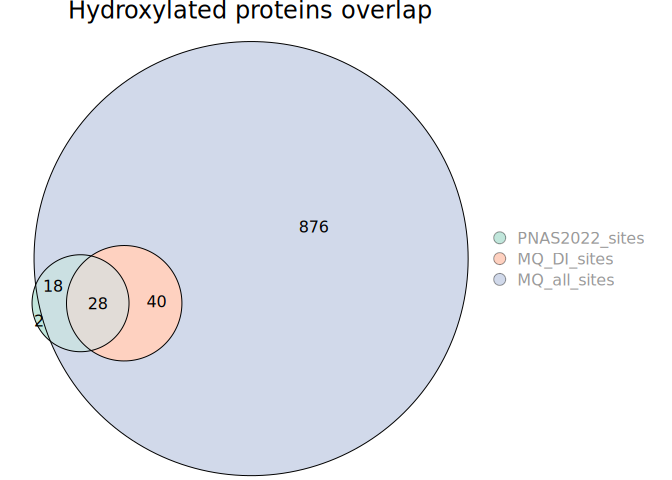
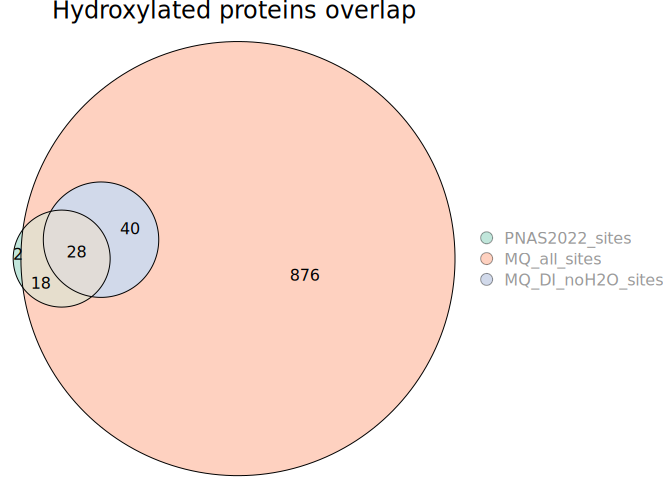
md_plots_updated

diff --git a/R/p2_lysine-rich-domain-LCMS/p2-4-diagnostic-ions.md b/R/p2_lysine-rich-domain-LCMS/p2-4-diagnostic-ions.md
@@ -1,7 +1,7 @@
 2-4. Analysis of lysine hydroxylations using diagnostic ions
 ================
 Yoichiro Sugimoto and Pallavi Kesavan
-27 November, 2025
+17 December, 2025
 
 - [Environment setup](#environment-setup)
 - [2.4.1 Import basic data](#241-import-basic-data)
@@ -10,8 +10,8 @@ Yoichiro Sugimoto and Pallavi Kesavan
   paper](#243-analyse-hydroxylation-sites-in-the-data-of-pnas-paper)
 - [2.4.4 Analyse hydroxylation sites without DI
   data](#244-analyse-hydroxylation-sites-without-di-data)
-- [2.4.5 Analyse hydroxylation sites with
-  DI](#245-analyse-hydroxylation-sites-with-di)
+- [2.4.5 Analyse hydroxylation sites with DI (wihtout
+  waterloss)](#245-analyse-hydroxylation-sites-with-di-wihtout-waterloss)
 - [2.4.6 Comparison of data without and with DI
   consideration](#246-comparison-of-data-without-and-with-di-consideration)
 - [2.4.7 Comparison of hydroxylation site class (MQ_DI) vs methionine
@@ -159,8 +159,9 @@ P2_functions <-
 
 ``` r
 ### Install private packages 
-# Install ptm.stiochiometry package - package installed 24.09.2025
-#install.packages("/fast/AG_Sugimoto/home/users/pallavi/projects/ptm.stoichiometry", repos = NULL, type = "source")
+# Install ptm.stiochiometry package - package installed 16.12.2025
+# install.packages("/fast/AG_Sugimoto/home/users/pallavi/projects/ptm.stoichiometry", repos = NULL, type = "source")
+
 
 # Load Libraries - ptm.stiochiometry,readxl and janitor
 library("readxl")
@@ -193,6 +194,10 @@ ref_protein_dt <- import_reference_fasta(
   )
 )
 
+#------------
+# MQ_Standard
+#------------
+
 # Load sample run info data (MQ Standard)
 MQ_std_sample_run_info <- read_excel(
   file.path(project.dir, "data/analysis_setting/PXD031221_sample_matrix.xlsx"),
@@ -203,15 +208,19 @@ MQ_std_sample_run_info <- read_excel(
 #row (1:N), where N is the total number of rows in the data.table
 MQ_std_sample_run_info[, sample_id := 1:.N]
 
-# Load sample run info data (MQ DI)
-MQ_DI_run_info <- read_excel(
+#----------------
+# MQ_DI_noH2Oloss
+#----------------
+
+# Load sample run info data (MQ DI with no waterloss)
+MQ_DI_noH2O_run_info <- read_excel(
   file.path(project.dir, "data/analysis_setting/PXD031221_sample_matrix.xlsx"),
-  sheet = "MQ_with_DI" 
+  sheet = "MQ_with_DI_noH2O" 
 ) %>% data.table
 
 # Add a new column 'sample_id' that assigns a unique sequential number to each 
 #row (1:N), where N is the total number of rows in the data.table
-MQ_DI_run_info[, sample_id := 1:.N]
+MQ_DI_noH2O_run_info[, sample_id := 1:.N]
 ```
 
 # 2.4.2 Definition of functions
@@ -221,7 +230,7 @@ MQ_DI_run_info[, sample_id := 1:.N]
 read_stoic_data <- function(prefix, pre_prefix, post_fix = "", dir_path){
   # Read csv file with defined file path,  
   dt <- fread(file.path(dir_path, paste0(pre_prefix, prefix, "PTM_stoichiometry", post_fix, ".csv"))) 
-  dt[, condition := gsub("_$", "", prefix)] # Removes '_' at the end of the prefix and creates a new column called condiiton
+  dt[, condition := gsub("_$", "", prefix)] # Removes '_' at the end of the prefix and creates a new column called condition
   return(dt)
 }
 
@@ -414,12 +423,12 @@ ggplot(
 
 ![](p2-4-diagnostic-ions_files/figure-gfm/analyse_hydroyxlation_sites_without_DI-1.png)<!-- -->
 
-# 2.4.5 Analyse hydroxylation sites with DI
+# 2.4.5 Analyse hydroxylation sites with DI (wihtout waterloss)
 
 ``` r
-## Read stoichiometry data for MQ_DI
-MQ_DI_stoic_dt <- lapply(
-  MQ_DI_run_info[, prefix],
+## Read stoichiometry data for MQ_DI without waterloss
+MQ_DI_noH20_stoic_dt <- lapply(
+  MQ_DI_noH2O_run_info[, prefix],
   read_stoic_data,
   pre_prefix = "DI_", 
   post_fix = "_DI",
@@ -427,10 +436,10 @@ MQ_DI_stoic_dt <- lapply(
 ) %>% rbindlist
 
 # Generate data table with stoichiometry values for WT and JMJD6KO 
-MQ_DI_d.hydroxyK_dt <- contrast_hydroxylation_by_genotype(MQ_DI_stoic_dt)
+MQ_DI_d.hydroxyK_dt <- contrast_hydroxylation_by_genotype(MQ_DI_noH20_stoic_dt)
 
 # Generate data table with WT and JMJD6KO with diagnostic peaks
-DI_info <- MQ_DI_stoic_dt[
+DI_info <- MQ_DI_noH20_stoic_dt[
   , .(protein_accession, aa_pos, diagnostic_peak) # filter these columns and create a separate data table 
 ][
   order(protein_accession, aa_pos, -diagnostic_peak) # order the data based on the highest diagnostic peak 
@@ -493,7 +502,7 @@ ggplot(
     ## Warning: Removed 503 rows containing missing values or values outside the scale range
     ## (`geom_point()`).
 
-![](p2-4-diagnostic-ions_files/figure-gfm/hydroxylation_sites_DI-1.png)<!-- -->
+![](p2-4-diagnostic-ions_files/figure-gfm/hydroxylation_sites_DI_no_waterloss-1.png)<!-- -->
 
 ``` r
 # Plot - WT versus JMJD6KO with presence of diagnostic ions (label points that are JMJD6KO > 0.1 with diagnostic ion)
@@ -517,7 +526,7 @@ ggplot(
     ## Warning: Removed 1827 rows containing missing values or values outside the scale range
     ## (`geom_text_repel()`).
 
-![](p2-4-diagnostic-ions_files/figure-gfm/hydroxylation_sites_DI_JMJD6KO-1.png)<!-- -->
+![](p2-4-diagnostic-ions_files/figure-gfm/hydroxylation_sites_DI_JMJD6KO_noH20loss-1.png)<!-- -->
 
 # 2.4.6 Comparison of data without and with DI consideration
 
@@ -544,7 +553,7 @@ ggplot(
   scale_fill_manual(values = c("TRUE" = "#A50026", "FALSE" = "#DDDDDD"))
 ```
 
-![](p2-4-diagnostic-ions_files/figure-gfm/comparison_nonDI_and_DI_data-1.png)<!-- -->
+![](p2-4-diagnostic-ions_files/figure-gfm/comparison_nonDI_and_DI_noH20loss_data-1.png)<!-- -->
 
 ``` r
 # Count the total hydroxylation site per class with diagnostic peak 
@@ -603,7 +612,7 @@ ggplot(feature_data_plot, aes(x = hydroxylation_site_class, fill = met_within_2)
   )
 ```
 
-![](p2-4-diagnostic-ions_files/figure-gfm/methionine_cont_MQ_DI-1.png)<!-- -->
+![](p2-4-diagnostic-ions_files/figure-gfm/methionine_cont_MQ_DI_noH20loss-1.png)<!-- -->
 
 # 2.4.8 Comparison with previous PNAS 2022 paper
 
@@ -735,8 +744,9 @@ ggplot(
   )
 ) +
   geom_point() +
-  ggrepel::geom_text_repel(aes(label = gene_name))+
+  ggrepel::geom_text_repel(aes(label = gene_name), size = 3, force = 1, max.overlaps = 7)+
   theme(aspect.ratio = 1) +
+  labs(title = "PNAS2022 stoichiometry versus MQ_DI (noH20) stoichiometry data ") +
   scale_x_continuous(labels = scales::percent_format(accuracy = 1)) +
   scale_y_continuous(labels = scales::percent_format(accuracy = 1))
 ```
@@ -747,10 +757,10 @@ ggplot(
     ## Warning: Removed 1 row containing missing values or values outside the scale range
     ## (`geom_text_repel()`).
 
-    ## Warning: ggrepel: 66 unlabeled data points (too many overlaps). Consider
+    ## Warning: ggrepel: 72 unlabeled data points (too many overlaps). Consider
     ## increasing max.overlaps
 
-![](p2-4-diagnostic-ions_files/figure-gfm/pnas2022_comparison_MQ_DI-1.png)<!-- -->
+![](p2-4-diagnostic-ions_files/figure-gfm/pnas2022_comparison_MQ_DI_noH20loss-1.png)<!-- -->
 
 ``` r
 # Correlation test between pnas2022 stoic and new stoic data 
@@ -789,8 +799,9 @@ ggplot(
   )
 ) +
   geom_point() +
-  ggrepel::geom_text_repel(aes(label = gene_name))+
+  ggrepel::geom_text_repel(aes(label = gene_name), size = 3, force = 1, max.overlaps = 7)+
   theme(aspect.ratio = 1) +
+  labs(title = "PNAS2022 stoichiometry versus MQ_DI (noH20) stoichiometry data ") +
   scale_x_continuous(labels = scales::percent_format(accuracy = 1)) +
   scale_y_continuous(labels = scales::percent_format(accuracy = 1))
 ```
@@ -801,7 +812,7 @@ ggplot(
     ## Warning: Removed 1 row containing missing values or values outside the scale range
     ## (`geom_text_repel()`).
 
-    ## Warning: ggrepel: 61 unlabeled data points (too many overlaps). Consider
+    ## Warning: ggrepel: 73 unlabeled data points (too many overlaps). Consider
     ## increasing max.overlaps
 
 ![](p2-4-diagnostic-ions_files/figure-gfm/pnas2022_comparison_MQ_standard-1.png)<!-- -->
@@ -834,7 +845,7 @@ pnas2022_MQStd_hydroxyK_dt %$%
 #----------
 
 # MQ data including all lysine hydroxylation sites
-MQ_all_hoxy_site_count <- MQ_DI_stoic_dt[aa == "K"][ptm == "[Oxidation (K)]"][order(protein_accession, aa_pos, -diagnostic_peak)][!duplicated(paste(protein_accession, aa_pos))]
+MQ_all_hoxy_site_count <- MQ_DI_noH20_stoic_dt[aa == "K"][ptm == "[Oxidation (K)]"][order(protein_accession, aa_pos, -diagnostic_peak)][!duplicated(paste(protein_accession, aa_pos))]
 
 # Add new column to data table 
 MQ_all_hoxy_site_count[, `:=`(
@@ -843,37 +854,38 @@ MQ_all_hoxy_site_count[, `:=`(
 ]
 
 # MQ data including all lysine hydroxylation proteins
-MQ_all_hoxy_protein_count <- MQ_DI_stoic_dt[aa == "K"][ptm == "[Oxidation (K)]"][order(protein_accession, aa_pos, -diagnostic_peak)][!duplicated(paste(protein_accession, gene_name))]
+MQ_all_hoxy_protein_count <- MQ_DI_noH20_stoic_dt[aa == "K"][ptm == "[Oxidation (K)]"][order(protein_accession, aa_pos, -diagnostic_peak)][!duplicated(paste(protein_accession, gene_name))]
 
-#-----------
-## MQ_DI
-#-----------
+#----------------
+# MQ_DI_noH2Oloss
+#----------------
 
 # Count the total number of lysine hydroxylations in MQ_DI (aa_pos)
-MQ_DI_stoic_dt[diagnostic_peak == "+"][aa == "K"][ptm == "[Oxidation (K)]"][order(protein_accession, aa_pos, -diagnostic_peak)][!duplicated(paste(protein_accession, aa_pos))][, .N]
+MQ_DI_noH20_stoic_dt[diagnostic_peak == "+"][aa == "K"][ptm == "[Oxidation (K)]"][order(protein_accession, aa_pos, -diagnostic_peak)][!duplicated(paste(protein_accession, aa_pos))][, .N]
 ```
 
     ## [1] 235
 
 ``` r
 # create data table with hydroxylated sites 
-MQ_DI_site_count <- MQ_DI_stoic_dt[diagnostic_peak == "+"][aa == "K"][ptm == "[Oxidation (K)]"][order(protein_accession, aa_pos, -diagnostic_peak)][!duplicated(paste(protein_accession, aa_pos))]
+MQ_DI_noH2O_site_count <- MQ_DI_noH20_stoic_dt[diagnostic_peak == "+"][aa == "K"][ptm == "[Oxidation (K)]"][order(protein_accession, aa_pos, -diagnostic_peak)][!duplicated(paste(protein_accession, aa_pos))]
 
 # Add new column to data table 
-MQ_DI_site_count[, `:=`(
+MQ_DI_noH2O_site_count[, `:=`(
   accession_position = paste0(protein_accession, "_", aa_pos)
 )
 ]
 
 # Count the total number of lysine hydroxylations in MQ_DI (gene_name)
-MQ_DI_stoic_dt[diagnostic_peak == "+"][aa == "K"][ptm == "[Oxidation (K)]"][order(protein_accession, aa_pos, -diagnostic_peak)][!duplicated(paste(protein_accession, gene_name))][, .N]
+MQ_DI_noH20_stoic_dt[diagnostic_peak == "+"][aa == "K"][ptm == "[Oxidation (K)]"][order(protein_accession, aa_pos, -diagnostic_peak)][!duplicated(paste(protein_accession, gene_name))][, .N]
 ```
 
     ## [1] 68
 
 ``` r
 # create data table with hydroxylated proteins
-MQ_DI_protein_count <- MQ_DI_stoic_dt[diagnostic_peak == "+"][aa == "K"][ptm == "[Oxidation (K)]"][order(protein_accession, aa_pos, -diagnostic_peak)][!duplicated(paste(protein_accession, gene_name))]
+MQ_DI_noH2O_protein_count <- MQ_DI_noH20_stoic_dt[diagnostic_peak == "+"][aa == "K"][ptm == "[Oxidation (K)]"][order(protein_accession, aa_pos, -diagnostic_peak)][!duplicated(paste(protein_accession, gene_name))]
+
 
 #-----------
 ## PNAS2022
@@ -929,7 +941,7 @@ PNAS2022_protein_count <- pnas2022.stoic.dt[
 ```
 
 ``` r
-# Plot - Venn Diagram of comparing hydroxylated sites between PNAS2022, MQ_DI and MQ_DI_it
+# Plot - Venn Diagram of comparing hydroxylated sites between PNAS2022, MQ_all and MQ_DI_noH20loss
 
 # Install package "ggVennDiagram"
 # install.packages("ggVennDiagram")
@@ -945,7 +957,7 @@ library(RColorBrewer)
 vennlist <-  list(
   PNAS2022_sites = as.vector(PNAS2022_site_count[, accession_position]),
   MQ_all_hoxy_sites = as.vector(MQ_all_hoxy_site_count[, accession_position]),
-  MQ_DI_sites = as.vector(MQ_DI_site_count[, accession_position]) 
+  MQ_DI_noH2O_sites = as.vector(MQ_DI_noH2O_site_count[, accession_position])
 )
 
 # Changing the circle size based on the number in the circle
@@ -964,19 +976,44 @@ plot(venn_size_based,
 ![](p2-4-diagnostic-ions_files/figure-gfm/Venn_diagram_hyoxy_sites-1.png)<!-- -->
 
 ``` r
+vennlist <-  list(
+  PNAS2022_sites = as.vector(PNAS2022_site_count[, accession_position]),
+  MQ_DI_noH2O_sites = as.vector(MQ_DI_noH2O_site_count[, accession_position])
+)
+
+# Changing the circle size based on the number in the circle
+venn_size_based <- euler(vennlist)
+
+cols <- brewer.pal(2, "Set2")
+```
+
+    ## Warning in brewer.pal(2, "Set2"): minimal value for n is 3, returning requested palette with 3 different levels
+
+``` r
+# Plot the diagram
+plot(venn_size_based,
+     fills = list(fill = cols, alpha = 0.4),
+     legend = list(side = "right"),
+     quantities = TRUE,
+     main = "Hydroxylated Sites Overlap")
+```
+
+![](p2-4-diagnostic-ions_files/figure-gfm/Venn_diagram_hyoxy_sites-2.png)<!-- -->
+
+``` r
 # Duplicated sites check PNAS 
 # MQ_all_hoxy_site_count[protein_accession == "Q14331" & aa_pos %in% c(27, 29, 30)]
 # MQ_all_hoxy_site_count[protein_accession == "Q9UQ35" & aa_pos %in% c(241, 243, 244)]
 ```
 
 ``` r
-# Plot - Venn Diagram of comparing hydroxylated proteins between PNAS2022, MQ_DI and MQ_DI_it
+# Plot - Venn Diagram of comparing hydroxylated proteins between PNAS2022, MQ_all and MQ_DI_noH20loss
 
-# Extract the accession position vectors 
+# Extract the gene name vectors 
 vennlist <-  list(
   PNAS2022_sites = as.vector(PNAS2022_protein_count[, gene_name]),
-  MQ_DI_sites = as.vector(MQ_DI_protein_count[, gene_name]),
-  MQ_all_sites = as.vector(MQ_all_hoxy_protein_count[, gene_name])
+    MQ_all_sites = as.vector(MQ_all_hoxy_protein_count[, gene_name]),
+  MQ_DI_noH2O_sites = as.vector(MQ_DI_noH2O_protein_count[, gene_name])
 )
 
 # Changing the circle size based on the number in the circle
@@ -994,6 +1031,32 @@ plot(venn_size_based,
 
 ![](p2-4-diagnostic-ions_files/figure-gfm/Venn_diagram_hyoxy_proteins-1.png)<!-- -->
 
+``` r
+# Extract the gene name vectors 
+vennlist <-  list(
+  PNAS2022_sites = as.vector(PNAS2022_protein_count[, gene_name]),
+  MQ_DI_noH2O_sites = as.vector(MQ_DI_noH2O_protein_count[, gene_name])
+)
+
+# Changing the circle size based on the number in the circle
+venn_size_based <- euler(vennlist)
+
+cols <- brewer.pal(2, "Set2")
+```
+
+    ## Warning in brewer.pal(2, "Set2"): minimal value for n is 3, returning requested palette with 3 different levels
+
+``` r
+# Plot the diagram
+plot(venn_size_based,
+     fills = list(fill = cols, alpha = 0.4),
+     legend = list(side = "right"),
+     quantities = TRUE,
+     main = "Hydroxylated proteins overlap")
+```
+
+![](p2-4-diagnostic-ions_files/figure-gfm/Venn_diagram_hyoxy_proteins-2.png)<!-- -->
+
 # Session information
 
 ``` r
@@ -1010,7 +1073,7 @@ sessioninfo::session_info()
     ##  collate  C.UTF-8
     ##  ctype    C.UTF-8
     ##  tz       Europe/Berlin
-    ##  date     2025-11-27
+    ##  date     2025-12-17
     ##  pandoc   3.4 @ /usr/lib/rstudio-server/bin/quarto/bin/tools/x86_64/ (via rmarkdown)
     ##  quarto   1.6.42 @ /usr/lib/rstudio-server/bin/quarto/bin/quarto
     ## 
@@ -1031,7 +1094,7 @@ sessioninfo::session_info()
     ##  generics          * 0.1.4      2025-05-09 [1] CRAN (R 4.5.1)
     ##  GenomeInfoDb      * 1.44.3     2025-09-21 [1] Bioconduc~
     ##  GenomeInfoDbData    1.2.14     2025-09-24 [1] Bioconductor
-    ##  ggplot2           * 4.0.0      2025-09-11 [1] CRAN (R 4.5.1)
+    ##  ggplot2           * 4.0.1      2025-11-14 [1] CRAN (R 4.5.1)
     ##  ggrepel             0.9.6      2024-09-07 [1] CRAN (R 4.5.1)
     ##  ggVennDiagram     * 1.5.4      2025-06-21 [1] CRAN (R 4.5.1)
     ##  glue                1.8.0      2024-09-30 [1] CRAN (R 4.5.1)
@@ -1051,13 +1114,14 @@ sessioninfo::session_info()
     ##  pkgconfig           2.0.3      2019-09-22 [1] CRAN (R 4.5.1)
     ##  polyclip            1.10-7     2024-07-23 [1] CRAN (R 4.5.1)
     ##  polylabelr          0.3.0      2024-11-19 [1] CRAN (R 4.5.1)
-    ##  ptm.stoichiometry * 0.0.0.9000 2025-11-07 [1] local
+    ##  ptm.stoichiometry * 0.0.0.9000 2025-12-16 [1] local
     ##  R6                  2.6.1      2025-02-15 [1] CRAN (R 4.5.1)
     ##  RColorBrewer      * 1.1-3      2022-04-03 [1] CRAN (R 4.5.1)
     ##  Rcpp                1.1.0      2025-07-02 [1] CRAN (R 4.5.1)
     ##  readxl            * 1.4.5      2025-03-07 [1] CRAN (R 4.5.1)
     ##  rlang               1.1.6      2025-04-11 [1] CRAN (R 4.5.1)
     ##  rmarkdown           2.29       2024-11-04 [1] CRAN (R 4.5.1)
+    ##  rstudioapi          0.17.1     2024-10-22 [1] CRAN (R 4.5.1)
     ##  S4Vectors         * 0.46.0     2025-04-15 [1] Bioconduc~
     ##  S7                  0.2.0      2024-11-07 [1] CRAN (R 4.5.1)
     ##  scales              1.4.0      2025-04-24 [1] CRAN (R 4.5.1)
